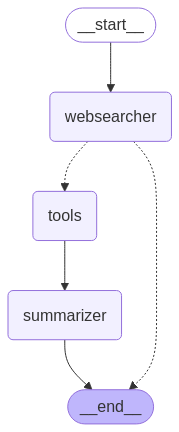
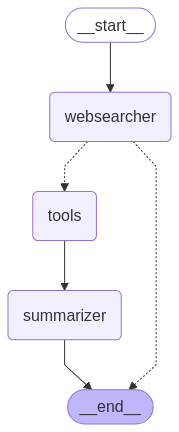
update pdf reader to docling and fixed some bugs

diff --git a/src/vectordb/chroma.py b/src/vectordb/chroma.py
@@ -5,7 +5,9 @@ from langchain_core.vectorstores import VectorStoreRetriever
 from langchain_chroma import Chroma
 from langchain.text_splitter import RecursiveCharacterTextSplitter
 from models.text_embedding.stella import Stella
-import pymupdf
+from docling.document_converter import DocumentConverter, PdfFormatOption
+from docling.datamodel.pipeline_options import PdfPipelineOptions
+from docling.datamodel.base_models import InputFormat
 
 
 class ChromaVectorStore:
@@ -80,13 +82,25 @@ class ChromaVectorStore:
         Returns:
             List of Document objects, one per page
         """
-        doc = pymupdf.open(path)
+        pipeline_options = PdfPipelineOptions()
+        pipeline_options.generate_page_images = True
+        pipeline_options.generate_picture_images = True
+        converter = DocumentConverter(
+            format_options={
+                InputFormat.PDF: PdfFormatOption(pipeline_options=pipeline_options)
+            }
+        )
+        converted_doc = converter.convert(path)
+        md = converted_doc.document.export_to_markdown(page_break_placeholder="<!-- page break -->")
+        md_remove_img = md.replace("<!-- image -->\n\n", "")
+        md_split = [pg.strip() for pg in md_remove_img.split("<!-- page break -->\n\n")]
+
         content = []
-        for i, page in enumerate(doc):
+        for i, page in enumerate(md_split):
             #TODO: Add last 128 tokens/words from previous page to the beginning of current page.
             content.append(
                 Document(
-                    page_content=page.get_text().encode("utf-8"),
+                    page_content=page.encode("utf-8"),
                     metadata={
                         "source": path,
                         "page": i

diff --git a/src/graph.py b/src/graph.py
@@ -114,7 +114,7 @@ class WorkflowGraph:
         self.graph = graph_builder.compile(checkpointer=memory)
         print(self.graph.get_graph().draw_mermaid())
         image = Image.open(io.BytesIO(self.graph.get_graph().draw_mermaid_png()))
-        image.save("./assets/workflow-graph.png")
+        image.save("./docs/assets/workflow-graph.png")
 
     def __call__(self):
         """Make the workflow graph callable.

diff --git a/src/models/llm/qwen.py b/src/models/llm/qwen.py
@@ -30,7 +30,7 @@ class Qwen(BaseLLMPipe):
         model = AutoModelForCausalLM.from_pretrained(
             "Qwen/Qwen2.5-3B-Instruct-AWQ", 
             device_map="cuda", 
-            torch_dtype=torch.bfloat16
+            torch_dtype=torch.float16
         )
         tokenizer = AutoTokenizer.from_pretrained("Qwen/Qwen2.5-3B-Instruct-AWQ")
         pipe = pipeline(
